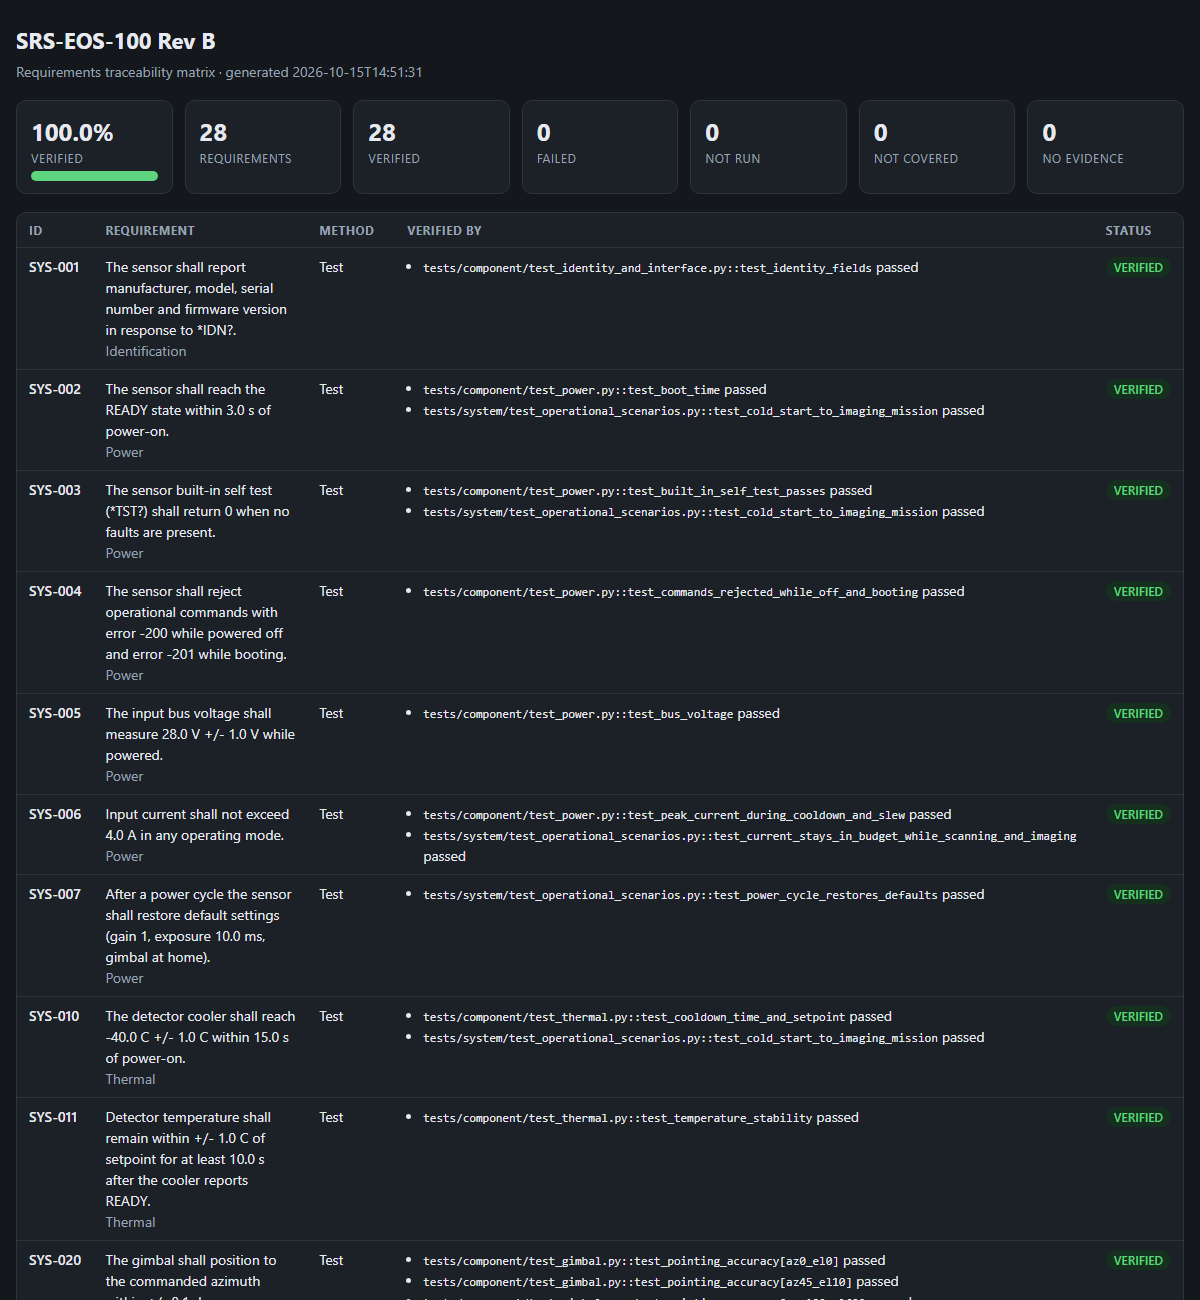
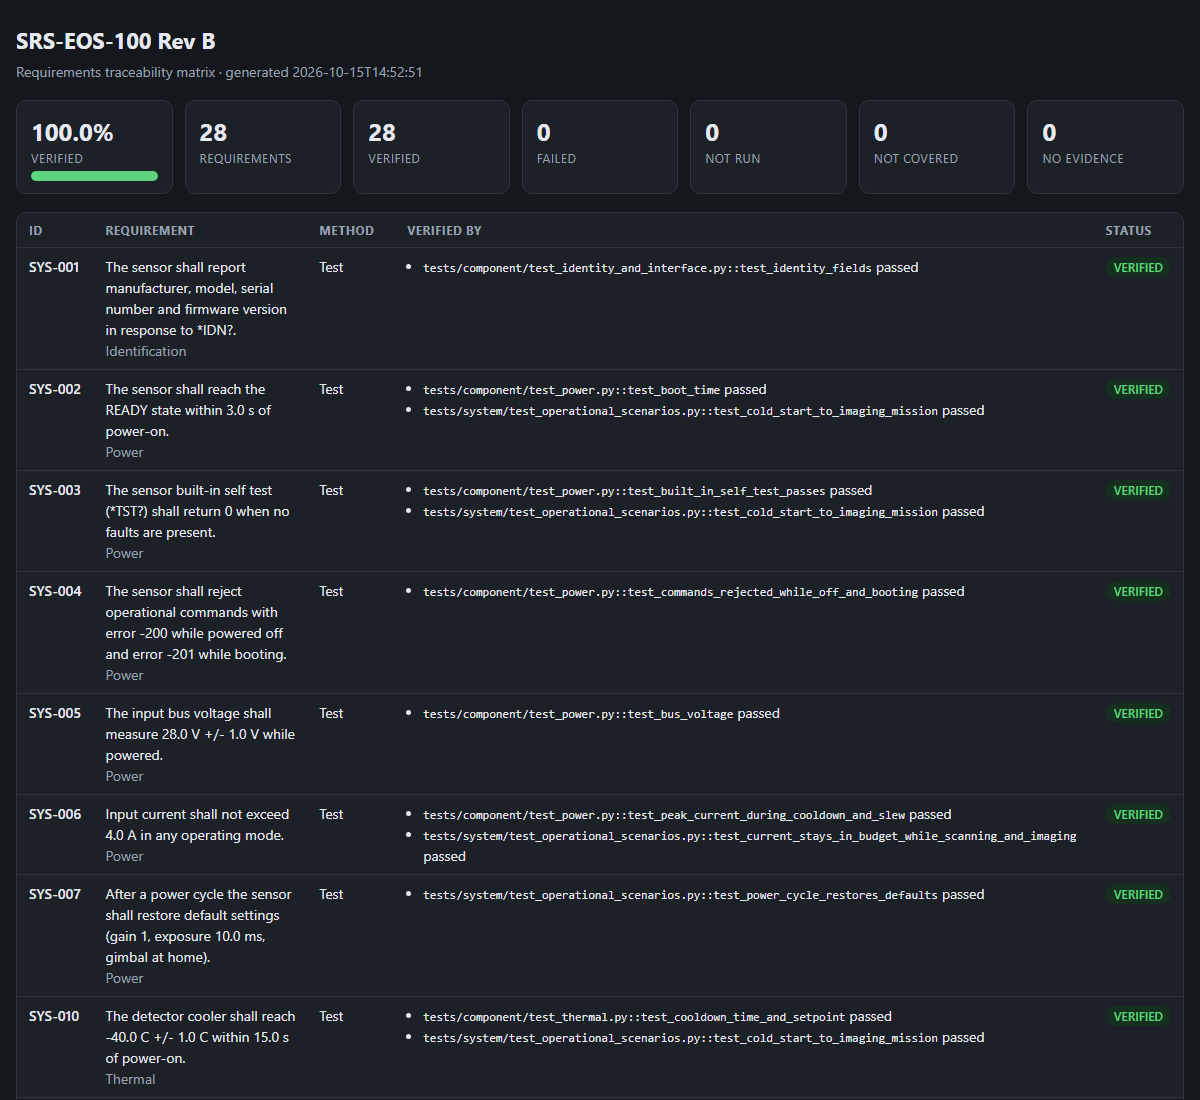
README: CI badge, screenshots, fault campaign summary, defect log

diff --git a/README.md b/README.md
@@ -1,19 +1,33 @@
 # EO Sensor Test Station
 
+[![CI](https://github.com/KyleEGibson/eo-sensor-test-station/actions/workflows/ci.yml/badge.svg)](https://github.com/KyleEGibson/eo-sensor-test-station/actions/workflows/ci.yml)
+![Python](https://img.shields.io/badge/python-3.11%20%7C%203.12-blue)
+![Requirements verified](https://img.shields.io/badge/requirements%20verified-28%2F28-brightgreen)
+
 An automated integration and test station for a simulated electro-optical sensor (the EOS-100), with built-in **requirements traceability**.
 
 The sensor is a pure-software model of a cooled IR camera with a two-axis gimbal. The test station talks to it over a serial-style protocol, runs component-level and system-level functional tests against requirement limits, injects hardware faults, and produces a test report, a results database and a requirements traceability matrix (RTM) on every run.
 
+**[Latest test report](https://kyleegibson.github.io/eo-sensor-test-station/)** · **[Latest RTM](https://kyleegibson.github.io/eo-sensor-test-station/rtm.html)** (published by CI)
+
+| Passing run | Run with an injected fault |
+|---|---|
+| ![Test report](docs/images/test_report.png) | ![Fault report](docs/images/fault_report.png) |
+
+![Requirements traceability matrix](docs/images/rtm.png)
+
 ## What this demonstrates
 | Integration/test engineering task | Where |
 |---|---|
-| Test plans, procedures, test cases | `tests/component`, `tests/system` |
-| Requirements traceability | `requirements/requirements.yaml` + `src/pytest_rtm` (RTM in HTML/Excel/JSON/Markdown) |
+| Test plans, procedures, test cases | [`docs/test_plan.md`](docs/test_plan.md), `tests/component`, `tests/system` |
+| Requirements traceability | [`requirements/requirements.yaml`](requirements/requirements.yaml) + `src/pytest_rtm` (RTM in HTML/Excel/JSON/Markdown) |
 | Functional tests at component and system level | `tests/component/*`, `tests/system/*` |
 | Scripting and test automation | `src/test_station` (pyserial driver + pytest test executive) |
-| Troubleshooting and root cause analysis | `reports/comm_log.tsv` raw transcript; bugs found and fixed are recorded in the commit history |
-| Fault injection and failure detection | `src/eos_sim/faults.py`, `tests/station/test_fault_detection.py` |
-| Test reports and documentation | `reports/test_report.html`, `docs/interface_control_document.md` |
+| Setting up and configuring the system under test | `src/eos_sim`, `--dut-url`, `--time-scale`, `--inject-fault` |
+| Root cause analysis and corrective action | [Defects found](#defects-found-during-development) below; `reports/comm_log.tsv` transcript |
+| Failure and trend analysis | [`docs/fault_campaign.md`](docs/fault_campaign.md); append-only `results.db` |
+| Configuration management | Git commit recorded in every report; CI on every push; database schema migration |
+| Technical documentation | [ICD](docs/interface_control_document.md), [test plan](docs/test_plan.md), [design decisions](docs/design_decisions.md) |
 
 ## Architecture
 ```mermaid
@@ -32,34 +46,57 @@ flowchart LR
 python -m venv .venv
 .venv\Scripts\activate            # Windows  (source .venv/bin/activate on Linux/macOS)
 pip install -e ".[dev]"
-pytest --rtm-strict               # 80 tests, about 15 s; outputs go to reports/
+pytest --rtm-strict               # 81 tests, about 15 s; outputs go to reports/
 ```
 Run against a separately launched simulator (or real hardware on a COM port):
 ```bash
 python -m eos_sim --port 5025 --fault TEMP_DRIFT
 pytest --dut-url socket://127.0.0.1:5025 --time-scale 1
 ```
-Inject a fault for a whole run to see which tests catch it:
+Inject a fault for a whole run, or run the full fault campaign:
 ```bash
 pytest tests/component tests/system --inject-fault GIMBAL_STALL
+python scripts/fault_campaign.py  # about 2 min; writes docs/fault_campaign.md
 ```
+
+## Fault campaign
+A test suite that cannot fail proves nothing. The campaign reruns the acceptance suites once per injectable fault:
+
+| Fault | Expected | Tests failed | Result |
+|---|---|---:|---|
+| none (baseline) | all pass | 0 / 43 | PASS |
+| TEMP_DRIFT | detected | 1 / 43 | PASS: only the stability test catches it; the sensor's own BIT does not |
+| GIMBAL_STALL | detected | 15 / 43 | PASS |
+| VOLT_SAG | detected | 3 / 43 | PASS |
+| DEAD_PIXELS | detected | 3 / 43 | PASS |
+| COMM_DROP | tolerated | 0 / 37 | PASS: 145 retries |
+| COMM_CORRUPT | tolerated | 0 / 37 | PASS: 3,330 corrupted responses discarded |
+
+Full details are in [`docs/fault_campaign.md`](docs/fault_campaign.md).
 
 ## Layout
 ```
-requirements/   SRS with IADT verification methods (28 requirements)
-src/eos_sim/    device simulator (the DUT) + TCP server
+requirements/      SRS with IADT verification methods (28 requirements)
+src/eos_sim/       device simulator (the DUT) + TCP server
 src/test_station/  driver, spec limits, results DB, HTML report, pytest plugin
-src/pytest_rtm/ reusable traceability plugin
-tests/unit/       simulator model tests (fake clock)
-tests/component/  per-subsystem acceptance tests
-tests/system/     end-to-end operational scenarios
-tests/station/    verification of the station itself (TS-xxx requirements)
-docs/           interface control document
+src/pytest_rtm/    reusable traceability plugin (no dependency on the station)
+scripts/           fault campaign
+tests/unit/        simulator model tests (fake clock)
+tests/component/   per-subsystem acceptance tests
+tests/system/      end-to-end operational scenarios
+tests/station/     verification of the station itself (TS-xxx requirements)
+docs/              ICD, test plan, design decisions, fault campaign results
 ```
 
 ## Defects found during development
-Real issues the tests surfaced (see the commit messages):
-1. The ADC never saturated: the maximum signal (4064) fell below the 12-bit limit (4095).
-2. The cooler tests polled `COOL:STAT?` while the sensor was still booting, which is rejected with −201.
-3. The RTM plugin crashed at session end after rejecting an unknown requirement ID.
-4. The thermal-drift fault started the instant the cooler reached its band, so it never reported READY.
+Real issues found while building and testing the station. Each is described in its commit message.
+
+| # | Symptom | Root cause | Corrective action |
+|---|---|---|---|
+| 1 | Saturation test failed | Simulated sensor's maximum signal (4064) never reached the 12-bit ADC limit (4095) | Corrected the response constant |
+| 2 | Cooler tests failed on every run | Polled `COOL:STAT?` while the sensor was booting, which it rejects with −201 | Wait for READY first; cooldown still timed from power-on |
+| 3 | RTM plugin crashed at session end | A rejected requirement ID had already been stored as a trace link | Validate all links before storing any |
+| 4 | Drift fault: cooler never reported READY | Simulated drift began the instant the cooler reached its band | Added a 2 s hold before drift begins |
+| 5 | Fault campaign hung | Current test looped on `MOVING` with no deadline; a stalled gimbal never stops moving | Added a settle deadline and a per-run campaign timeout |
+| 6 | 3 timing tests failed on a healthy sensor under COMM_DROP | Read timeouts from dropped responses were counted as device delay | Marked timing tests; comm-fault runs check functional behavior only; report flags retries per test |
+| 7 | Crash with a new `--report-dir` | Comm log was written before the directory existed | Create the directory first; regression test added |
